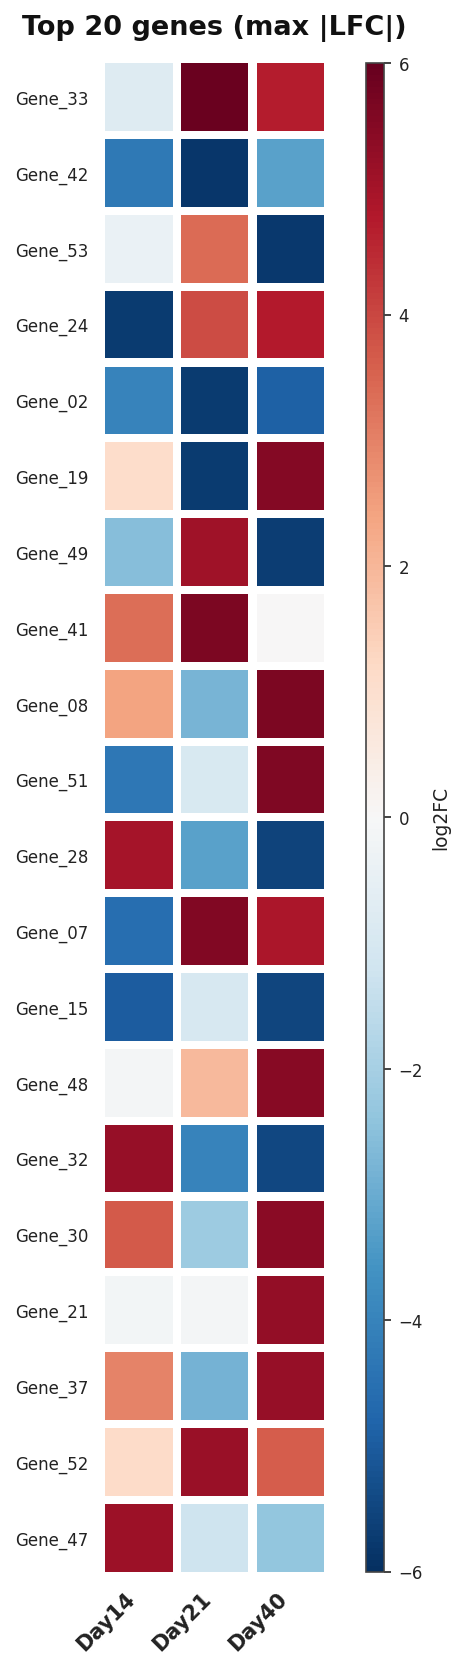
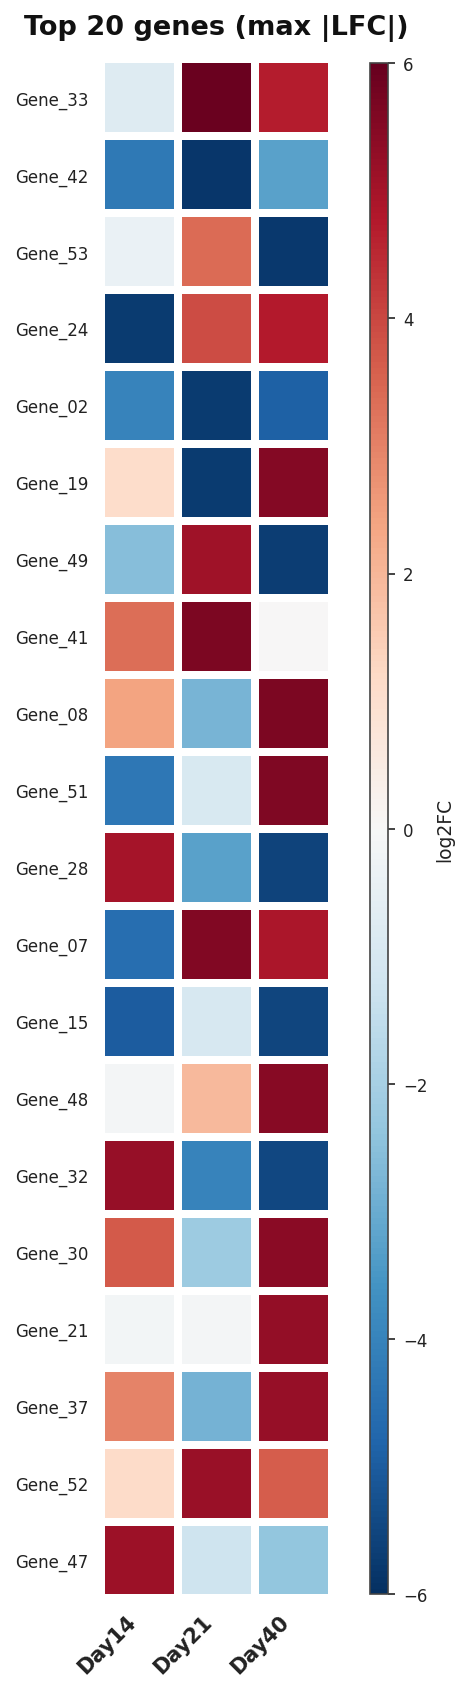
Improve grid sizing and layout calculations
Compute figure dimensions per-heatmap and include label/title spacings. Add new Style fields (grid_row_label_width, grid_title_height, grid_col_label_height, grid_pad) and use them to compute column/row sizes and overall figsize. Remove the old _grid_cell_dims helper and the fig_pad parameter from draw_grid, and update _figure_size to account for label/title heights. Updated example output images to reflect the new layout.

diff --git a/cubeheatmap/render.py b/cubeheatmap/render.py
@@ -71,7 +71,6 @@ def draw_grid(
     ncols: int = 1,
     style: Style = default_style,
     sig_masks: Optional[List[Optional[np.ndarray]]] = None,
-    fig_pad: float = 2.0,
 ) -> plt.Figure:
     """Draw multiple heatmaps in a grid layout and return the figure."""
     n = len(heatmaps)
@@ -80,10 +79,27 @@ def draw_grid(
     _subtitles = subtitles or [""] * n
     _masks = sig_masks or [None] * n
 
-    col_w, row_h = _grid_cell_dims(heatmaps, style)
+    step = style.cell_size + style.cell_gap
+    label_w = style.grid_row_label_width
+    title_h = style.grid_title_height
+    col_label_h = style.grid_col_label_height
+
+    row_data_heights = [hm.n_rows * step for hm in heatmaps]
+    col_data_widths = [hm.n_cols * step for hm in heatmaps]
+
+    grid_row_heights: List[float] = []
+    for grid_row in range(nrows):
+        col_idxs = range(grid_row * ncols, min(grid_row * ncols + ncols, n))
+        grid_row_heights.append(max(row_data_heights[i] for i in col_idxs) + title_h + col_label_h)
+
+    max_col_data_w = max(col_data_widths) if col_data_widths else step
+    fig_w = (max_col_data_w + label_w) * ncols
+    fig_h = sum(grid_row_heights) + style.grid_pad
+
     fig, axes = plt.subplots(
         nrows, ncols,
-        figsize=(col_w * ncols, row_h * nrows),
+        figsize=(fig_w, fig_h),
+        gridspec_kw={"height_ratios": grid_row_heights},
         squeeze=False,
     )
     fig.patch.set_facecolor(style.fig_facecolor)
@@ -99,7 +115,7 @@ def draw_grid(
         fig.suptitle(suptitle, fontsize=style.title_fontsize + 2,
                      fontweight=style.title_fontweight, color=style.title_color)
 
-    fig.tight_layout(pad=fig_pad)
+    fig.tight_layout(pad=style.grid_pad)
     return fig
 
 
@@ -292,21 +308,9 @@ def _draw_title(
 
 
 def _figure_size(heatmap: CubeHeatmap, style: Style) -> Tuple[float, float]:
-    sz = style.cell_size
-    gap = style.cell_gap
-    step = sz + gap
-    base_w = heatmap.n_cols * step + 3.0
-    base_h = heatmap.n_rows * step + 2.0
+    step = style.cell_size + style.cell_gap
+    base_w = heatmap.n_cols * step + style.grid_row_label_width
+    base_h = heatmap.n_rows * step + style.grid_title_height + style.grid_col_label_height
     return base_w, base_h
 
 
-def _grid_cell_dims(
-    heatmaps: List[CubeHeatmap],
-    style: Style,
-) -> Tuple[float, float]:
-    max_cols = max(hm.n_cols for hm in heatmaps)
-    max_rows = max(hm.n_rows for hm in heatmaps)
-    sz = style.cell_size
-    gap = style.cell_gap
-    step = sz + gap
-    return max_cols * step + 3.0, max_rows * step + 2.0

diff --git a/cubeheatmap/style.py b/cubeheatmap/style.py
@@ -65,5 +65,11 @@ class Style:
     # ── Axis spine ───────────────────────────────────────────────
     spine_color: str = "#444444"
 
+    # ── Grid layout sizing ───────────────────────────────────────
+    grid_row_label_width: float = 3.5
+    grid_title_height: float = 1.2
+    grid_col_label_height: float = 1.0
+    grid_pad: float = 2.0
+
 
 default_style = Style()
